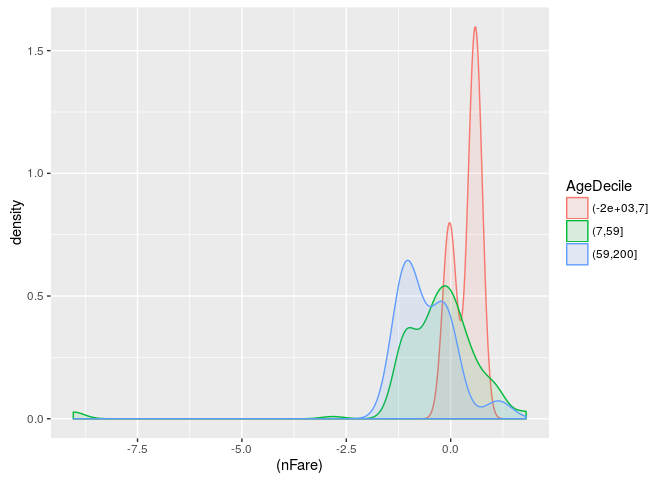
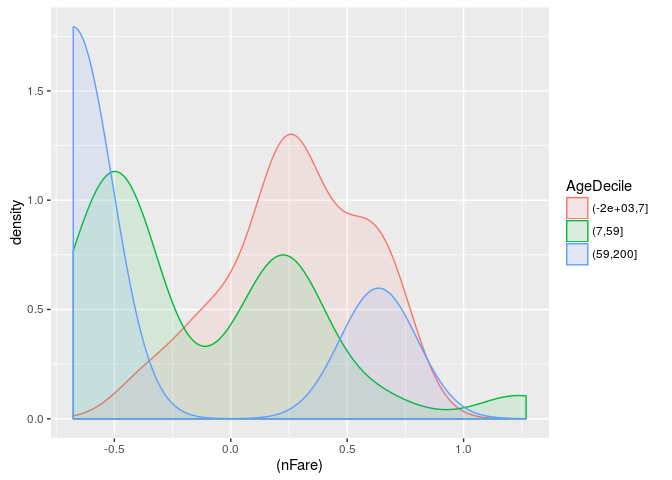
minor change

diff --git a/main.md b/main.md
@@ -112,30 +112,24 @@ ggplot(ds_m, aes(Parch, Survived)) +geom_jitter(alpha=0.1) + geom_point(alpha=0.
 ![](main_files/figure-html/EDA-11.png)<!-- -->
 
 ```r
-ggplot(ds_m, aes(x=Age, fill=Survived, colour=Survived)) + geom_density(adjust=1, alpha=0.1)
-```
-
-![](main_files/figure-html/EDA-12.png)<!-- -->
-
-```r
 ds_m$AgeDecile = cut(ds_m$Age, c(-2000,7,59,200))
 
 ggplot(ds_m[ds_m$Pclass==1,], aes(x=(nFare), fill=AgeDecile, colour=AgeDecile)) + geom_density(adjust=1, alpha=0.1)
 ```
 
-![](main_files/figure-html/EDA-13.png)<!-- -->
+![](main_files/figure-html/EDA-12.png)<!-- -->
 
 ```r
 ggplot(ds_m[ds_m$Pclass==2,], aes(x=(nFare), fill=AgeDecile, colour=AgeDecile)) + geom_density(adjust=1, alpha=0.1)
 ```
 
-![](main_files/figure-html/EDA-14.png)<!-- -->
+![](main_files/figure-html/EDA-13.png)<!-- -->
 
 ```r
 ggplot(ds_m[ds_m$Pclass==3 & as.integer(ds_m$AgeDecile)<3,], aes(x=(nFare), fill=AgeDecile, colour=AgeDecile)) + geom_density(adjust=1, alpha=0.1)
 ```
 
-![](main_files/figure-html/EDA-15.png)<!-- -->
+![](main_files/figure-html/EDA-14.png)<!-- -->
 
 ## Supporting Functions
 
@@ -315,34 +309,22 @@ trf_Age <- md_Age(dall[!is.na(dall$Age),])
 
 ```
 ##                 Overall
-## title         63.784117
-## isSingle      10.519996
-## SibSp         14.919887
-## Pclass        31.697105
-## r_SibSp_Parch 15.356186
-## CabinLet      15.938121
-## CabinNum      17.647262
-## CabinCnt       9.239219
-## Embarked      18.339170
-## cnt_ticket    35.759939
-## nFare         29.314488
-## I(Parch <= 2)  4.882813
-## I(SibSp > 1)   9.991564
-## Parch         15.167743
-## familySz      16.790179
+## title         66.924704
+## isSingle      13.691352
+## SibSp         14.356139
+## Pclass        32.968882
+## r_SibSp_Parch 16.046554
+## CabinLet      16.137229
+## CabinNum      18.700282
+## CabinCnt       7.404100
+## Embarked      19.242321
+## cnt_ticket    35.486976
+## nFare         30.331919
+## I(Parch <= 2)  6.455269
+## I(SibSp > 1)  10.179720
+## Parch         16.293392
+## familySz      15.216956
 ```
-
-```r
-ggplot(dall, aes(factor(title),Age)) + geom_boxplot()
-```
-
-![](main_files/figure-html/ManupulateData-1.png)<!-- -->
-
-```r
-ggplot(dall, aes(factor(title),Survived))  + geom_point(alpha=0.1) +geom_jitter(alpha=0.1)
-```
-
-![](main_files/figure-html/ManupulateData-2.png)<!-- -->
 
 ```r
 dall<-psttreatment(trf_Age,dall)
@@ -352,12 +334,12 @@ dall<-psttreatment(trf_Age,dall)
 ##              
 ##               (-2e+03,11] (11,15] (15,18] (18,30] (30,49] (49,59] (59,200]
 ##   (-2e+03,11]          88       0       1       1       0       0        0
-##   (11,15]               8       4       4       9       0       0        0
-##   (15,18]               3       3       6      61       5       0        0
-##   (18,30]               2       2       4     303     105       0        0
-##   (30,49]               0       0       2     105     216       4        0
+##   (11,15]               6       5       7       7       0       0        0
+##   (15,18]               3       3       5      63       4       0        0
+##   (18,30]               2       2       5     300     107       0        0
+##   (30,49]               0       0       1     106     216       4        0
 ##   (49,59]               0       0       0       9      52       9        0
-##   (59,200]              0       0       0       3      13      18        6
+##   (59,200]              0       0       0       3      14      17        6
 ```
 
 ```r
@@ -365,7 +347,23 @@ dall<-psttreatment(trf_Age,dall)
 
 ds <- dall[dall$src == 0,]
 dtest <- dall[dall$src == 1,]
+
+ggplot(ds, aes(factor(title),Age)) + geom_boxplot()
 ```
+
+![](main_files/figure-html/ManupulateData-1.png)<!-- -->
+
+```r
+ggplot(ds, aes(factor(title),Survived))  + geom_point(alpha=0.1) +geom_jitter(alpha=0.1)
+```
+
+![](main_files/figure-html/ManupulateData-2.png)<!-- -->
+
+```r
+ggplot(ds, aes(CabinLet, Survived)) +geom_jitter(alpha=0.1) + geom_point(alpha=0.1)
+```
+
+![](main_files/figure-html/ManupulateData-3.png)<!-- -->
 
 ## Modeling
 
@@ -414,27 +412,27 @@ varImp(tgbm2)
 ## 
 ##   only 20 most important variables shown (out of 34)
 ## 
-##             Overall
-## titleMr    100.0000
-## Sexmale     71.7568
-## p_Survived  58.8756
-## Pclass3     28.4592
-## CabinNum    25.6088
-## familySz    13.0912
-## titleOther   4.1919
-## EmbarkedS    3.9927
-## nFare        3.8902
-## cnt_ticket   1.2125
-## CabinCnt     0.8982
-## CabinLetE    0.7067
-## EmbarkedC    0.6552
-## CabinLetC    0.6420
-## CabinLetD    0.0000
-## Parch        0.0000
-## titleMrs     0.0000
-## Pclass2      0.0000
-## CabinLetA    0.0000
-## CabinLetF    0.0000
+##                      Overall
+## Sexmale             100.0000
+## titleMr              61.2048
+## p_Survived           60.7182
+## Pclass3              30.4270
+## CabinNum             24.4326
+## cnt_ticket           17.7509
+## nFare                11.4690
+## familySz              9.3618
+## EmbarkedS             6.5665
+## r_SibSp_Parch         4.2928
+## I(nFare/cnt_ticket)   4.2540
+## titleOther            4.1932
+## AgeDecile(18,30]      2.3851
+## AgeDecile(30,49]      1.4557
+## EmbarkedQ             1.2681
+## CabinLetC             1.1230
+## EmbarkedC             1.0743
+## CabinLetE             1.0427
+## titleMrs              1.0322
+## noAge                 0.6713
 ```
 
 ```r
@@ -449,12 +447,14 @@ bestmtry <- tuneRF(x, dtr$Survived, stepFactor=1.5, improve=1e-4, ntree=1001, do
 ```
 
 ```
-## mtry = 4  OOB error = 15.38% 
+## mtry = 4  OOB error = 17.28% 
 ## Searching left ...
-## mtry = 3 	OOB error = 15.94% 
-## -0.03649635 1e-04 
+## mtry = 3 	OOB error = 16.61% 
+## 0.03896104 1e-04 
+## mtry = 2 	OOB error = 17.28% 
+## -0.04054054 1e-04 
 ## Searching right ...
-## mtry = 6 	OOB error = 15.38% 
+## mtry = 6 	OOB error = 16.61% 
 ## 0 1e-04
 ```
 
@@ -492,25 +492,25 @@ varImp(trf)
 ## 
 ##                     Overall
 ## titleMr             100.000
-## p_Survived           98.452
-## Sexmale              87.216
-## CabinNum             34.620
-## cnt_ticket           34.588
-## nFare                34.151
-## I(nFare/cnt_ticket)  33.144
-## titleMiss            32.093
-## Pclass3              27.422
-## titleMrs             26.530
-## CabinCnt             23.465
-## familySz             23.357
-## r_SibSp_Parch        16.845
-## SibSp                13.568
-## Parch                10.484
-## EmbarkedS             9.426
-## AgeDecile(30,49]      9.003
-## AgeDecile(18,30]      7.735
-## Pclass2               7.160
-## EmbarkedC             6.896
+## Sexmale              94.286
+## p_Survived           88.616
+## CabinNum             35.237
+## titleMiss            33.810
+## cnt_ticket           32.785
+## I(nFare/cnt_ticket)  32.777
+## nFare                32.592
+## titleMrs             29.234
+## Pclass3              25.761
+## CabinCnt             22.872
+## familySz             22.245
+## r_SibSp_Parch        16.760
+## SibSp                14.003
+## Parch                10.590
+## EmbarkedS             8.848
+## AgeDecile(30,49]      7.790
+## EmbarkedC             7.327
+## AgeDecile(18,30]      6.622
+## Pclass2               6.487
 ```
 
 ## Resampling
@@ -533,16 +533,16 @@ summary(difValues)
 ## Lower diagonal: p-value for H0: difference = 0
 ## 
 ## Accuracy 
-##     RF     GBM       SVM      
-## RF         -0.009446  0.001537
-## GBM 0.2403            0.010983
-## SVM 1.0000 0.1945             
+##     RF GBM       SVM      
+## RF     -0.002220  0.002055
+## GBM 1             0.004275
+## SVM 1  1                  
 ## 
 ## Kappa 
-##     RF     GBM      SVM     
-## RF         -0.02300 -0.00137
-## GBM 0.1569           0.02163
-## SVM 1.0000 0.2782
+##     RF GBM        SVM       
+## RF     -0.0056698 -0.0007643
+## GBM 1              0.0049055
+## SVM 1  1
 ```
 
 ```r
